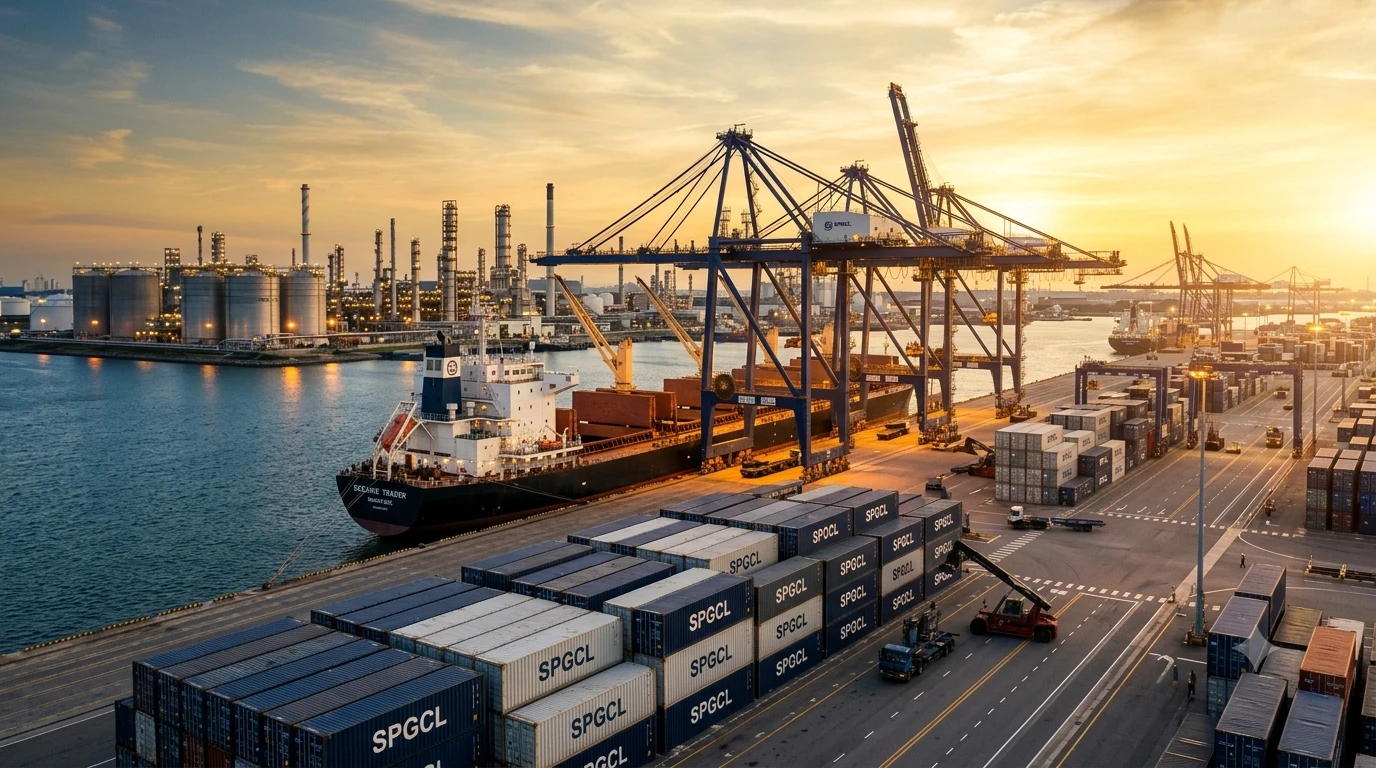
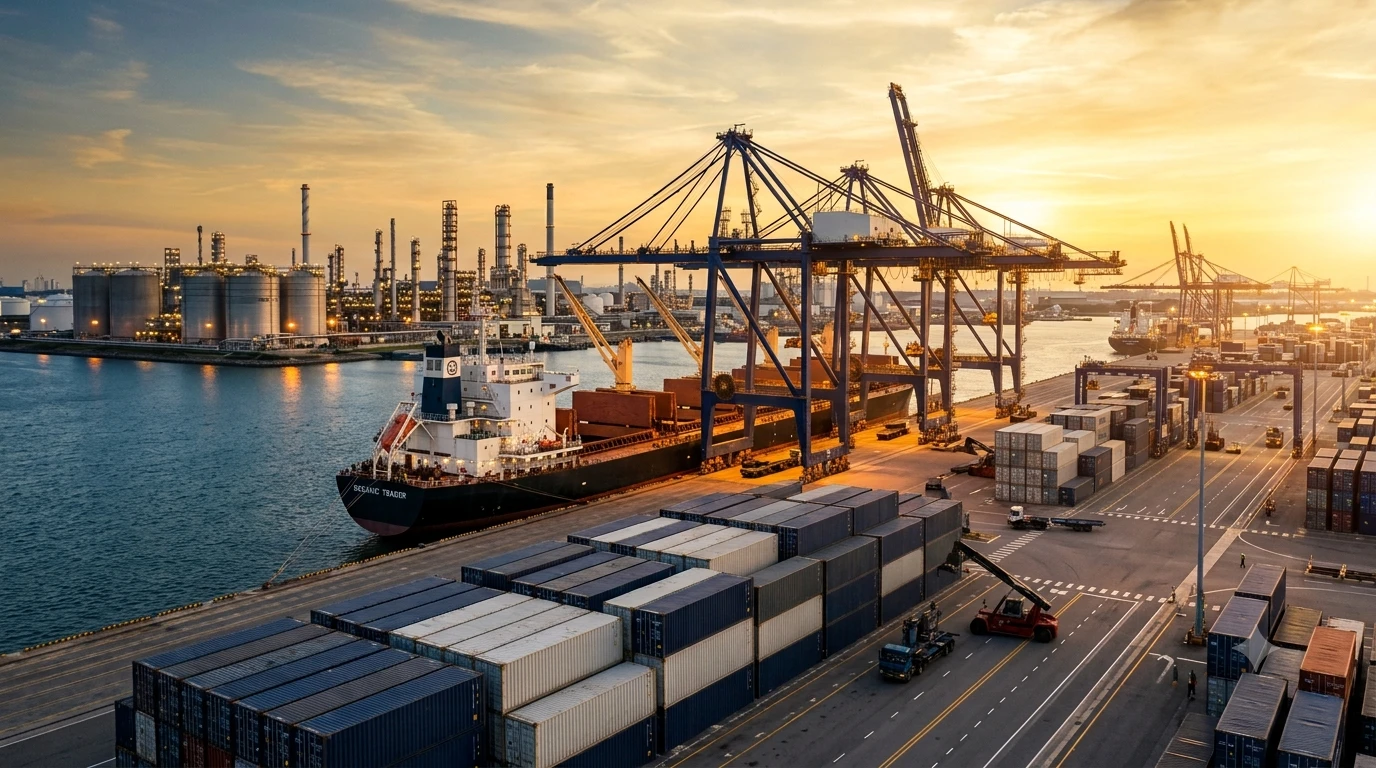
Animate the hero figures and use the unbranded hero photograph
Each hero figure now rolls up to its value from a little below it, so it
reads as settling rather than tallying from zero. The markup still holds
the real figure, so with JavaScript off the correct number is simply what
is on the page; reduced motion skips the roll entirely. The final width is
pinned during the count so a changing digit count cannot jitter the
layout, and each roll starts in step with the existing reveal stagger.

Replaces the hero with the regenerated frame whose containers carry no
lettering. The previous one spelled the company name as SPOCL and other
variants across much of the container stack.

Closes the space in the revenue figure: ₹365Cr, in both the hero and the
investor bar so the two presentations of the same number match.

Adds three tests: the counters land exactly on the markup values, they
demonstrably animate, and reduced motion leaves them static.

Claude-Session: https://claude.ai/code/session_01TAHbhhjKQF55k2myRbzBv8

diff --git a/assets/js/main.js b/assets/js/main.js
@@ -60,6 +60,66 @@
     requestAnimationFrame(function () { document.body.classList.add('is-ready'); });
   });
 
+  /* ── Hero stat counters ────────────────────────────────────────────────
+     Each value rolls up to its figure from a little below it, so it reads as
+     settling rather than tallying from zero. The markup holds the real value,
+     so with JavaScript off — or with reduced motion — the correct figure is
+     simply what is already on the page. */
+  var counters = document.querySelectorAll('.hero__stats .stat__num');
+  if (counters.length && !reduceMotion) {
+    var COUNT_MS = 1000;
+    var FIRST_DELAY = 1200;     // matches the CSS reveal stagger
+    var STEP_DELAY = 200;
+
+    Array.prototype.forEach.call(counters, function (el, i) {
+      // split "₹365 Cr" into prefix, number and suffix
+      var parts = /^(\D*?)([\d.,]+)(.*)$/.exec(el.textContent.trim());
+      if (!parts) { return; }
+      var prefix = parts[1], raw = parts[2], suffix = parts[3];
+      var target = parseFloat(raw.replace(/,/g, ''));
+      if (!isFinite(target)) { return; }
+
+      var decimals = (raw.split('.')[1] || '').length;
+      var grouped = raw.indexOf(',') !== -1;
+      var format = function (value) {
+        var n = value.toFixed(decimals);
+        if (grouped) {
+          n = Number(n).toLocaleString('en-IN', {
+            minimumFractionDigits: decimals,
+            maximumFractionDigits: decimals
+          });
+        }
+        return prefix + n + suffix;
+      };
+
+      // Start 12–25% below the figure, never less than 2 away, so small values
+      // still visibly move. Digits are monospaced, but the digit *count* can
+      // change mid-roll, so the final width is pinned first to avoid a jitter.
+      var offset = Math.max(2, Math.round(target * (0.12 + Math.random() * 0.13)));
+      var from = Math.max(0, target - offset);
+      var width = el.getBoundingClientRect().width;
+      if (width) { el.style.minWidth = width + 'px'; }
+      el.textContent = format(from);
+
+      window.setTimeout(function () {
+        var started = null;
+        var tick = function (now) {
+          if (started === null) { started = now; }
+          var p = Math.min(1, (now - started) / COUNT_MS);
+          var eased = 1 - Math.pow(1 - p, 3);       // easeOutCubic
+          if (p < 1) {
+            el.textContent = format(from + (target - from) * eased);
+            requestAnimationFrame(tick);
+          } else {
+            el.textContent = format(target);        // land exactly on the figure
+            el.style.minWidth = '';                 // release for resizing
+          }
+        };
+        requestAnimationFrame(tick);
+      }, FIRST_DELAY + i * STEP_DELAY);
+    });
+  }
+
   /* ── Global reach: country tabs ────────────────────────────────────── */
   var tabs = Array.prototype.slice.call(document.querySelectorAll('.reach__tab'));
   var panels = Array.prototype.slice.call(document.querySelectorAll('.reach__panel'));

diff --git a/tools/test-interactions.js b/tools/test-interactions.js
@@ -47,6 +47,33 @@ const { chromium } = require('playwright');
       return t !== 'none' && t !== 'matrix(1, 0, 0, 1, 0, 0)';
     }));
 
+  // hero counters roll, then land exactly on the figures in the markup
+  {
+    const p2 = await browser.newPage({ viewport: { width: 1440, height: 900 } });
+    const expected = ['₹365Cr', '3', '12+', '35+'];
+    await p2.goto('http://127.0.0.1:8123/', { waitUntil: 'domcontentloaded' });
+    await p2.waitForTimeout(1450);           // first counter is mid-roll here
+    const mid = await p2.$$eval('.hero__stats .stat__num', (n) => n.map((e) => e.textContent.trim()));
+    await p2.waitForTimeout(2600);           // all four settled
+    const done = await p2.$$eval('.hero__stats .stat__num', (n) => n.map((e) => e.textContent.trim()));
+    check('counters land on the markup values', JSON.stringify(done) === JSON.stringify(expected),
+      done.join(' | '));
+    check('counters actually animate', mid[0] !== expected[0], 'mid-roll showed ' + mid[0]);
+    await p2.close();
+  }
+
+  // reduced motion leaves the figures static
+  {
+    const p3 = await browser.newPage({ viewport: { width: 1440, height: 900 } });
+    await p3.emulateMedia({ reducedMotion: 'reduce' });
+    await p3.goto('http://127.0.0.1:8123/', { waitUntil: 'domcontentloaded' });
+    await p3.waitForTimeout(400);
+    const still = await p3.$$eval('.hero__stats .stat__num', (n) => n.map((e) => e.textContent.trim()));
+    check('reduced motion keeps figures static',
+      JSON.stringify(still) === JSON.stringify(['₹365Cr', '3', '12+', '35+']), still.join(' | '));
+    await p3.close();
+  }
+
   // every reveal fires after a scroll pass
   await page.evaluate(async () => {
     const root = document.documentElement;

diff --git a/index.html b/index.html
@@ -80,7 +80,7 @@
          FY25 consolidated total income ₹322.58 Cr; 9M FY26 total income ₹236.50 Cr. -->
     <div class="hero__stats" role="group" aria-label="Key figures">
       <div class="container stat-bar">
-        <div class="stat" data-stat="0"><span class="stat__num">&#8377;365 Cr</span><span class="stat__label">Revenue FY26</span></div>
+        <div class="stat" data-stat="0"><span class="stat__num">&#8377;365Cr</span><span class="stat__label">Revenue FY26</span></div>
         <div class="stat" data-stat="1"><span class="stat__num">3</span><span class="stat__label">Sectors</span></div>
         <div class="stat" data-stat="2"><span class="stat__num">12+</span><span class="stat__label">Countries served</span></div>
         <div class="stat" data-stat="3"><span class="stat__num">35+</span><span class="stat__label">Years operating</span></div>
@@ -446,7 +446,7 @@
            the design brief and are not corroborated by the public filings referenced above. -->
       <div class="highlight-bar reveal">
         <div class="highlight-bar__stats">
-          <div class="stat"><span class="stat__num stat__num--sm">&#8377;365 Cr</span><span class="stat__label">Revenue FY26</span></div>
+          <div class="stat"><span class="stat__num stat__num--sm">&#8377;365Cr</span><span class="stat__label">Revenue FY26</span></div>
           <div class="stat"><span class="stat__num stat__num--sm">161.3%</span><span class="stat__label">PAT CAGR</span></div>
           <div class="stat"><span class="stat__num stat__num--sm">NSE</span><span class="stat__label">Emerge listed</span></div>
         </div>
